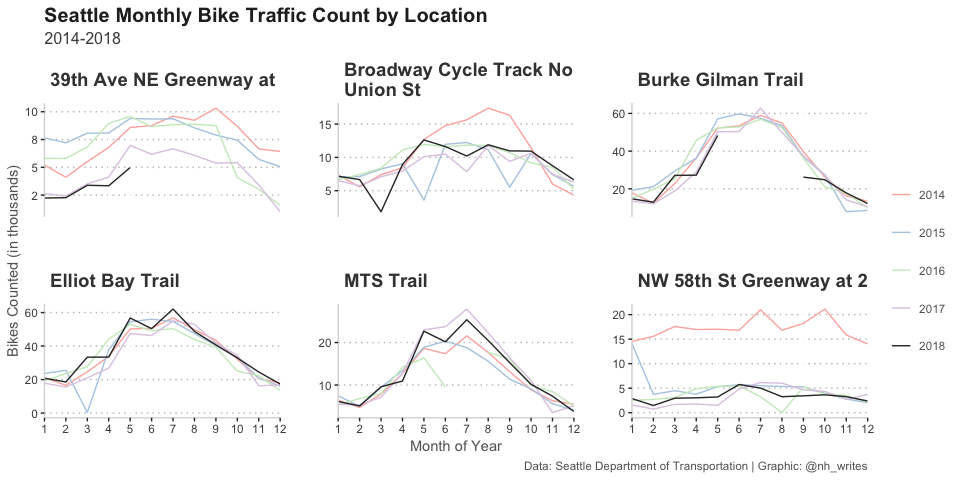
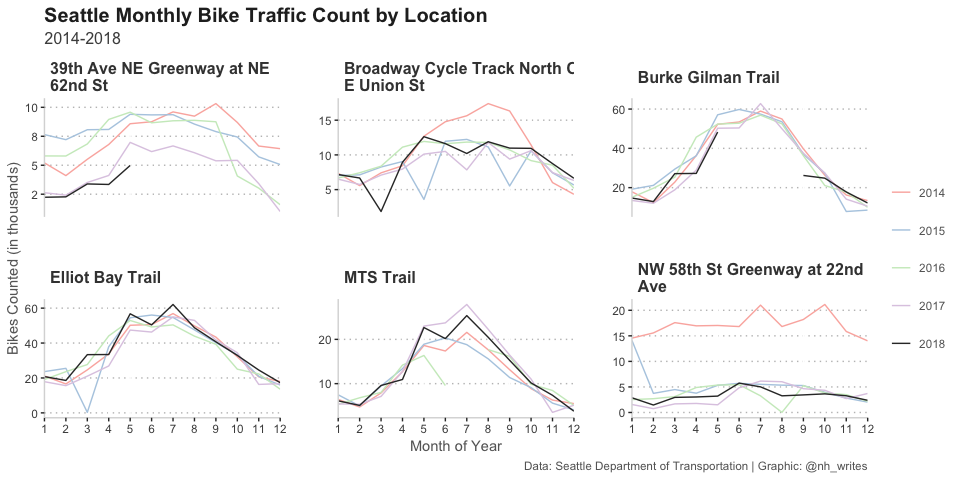
Minor update to Seattle bike traffic

diff --git a/2019-14/SeattleBikes.md b/2019-14/SeattleBikes.md
@@ -11,6 +11,8 @@ Nancy Huynh
 Data Import and Libraries
 -------------------------
 
+Another [TidyTuesday](https://github.com/rfordatascience/tidytuesday) exploratory analysis. This week the data is on bike traffic in Seattle at seven locations. The data is from the Seattle Department of Transportation, and you can get it from the [TidyTuesday Repo](https://github.com/rfordatascience/tidytuesday/tree/master/data/2019/2019-04-02)
+
 ``` r
 library(tidyverse)
 library(lubridate)
@@ -35,17 +37,17 @@ skim(bike_traffic)
     ##  n obs: 515688 
     ##  n variables: 5 
     ## 
-    ## ── Variable type:character ───────────────────────────────────────────────────────────
+    ## ── Variable type:character ──────────────────────────────────────────────────────────────────────────────────────────────────────────────────────────────────────────
     ##  variable missing complete      n min max empty n_unique
     ##  crossing       0   515688 515688   9  40     0        7
     ## 
-    ## ── Variable type:factor ──────────────────────────────────────────────────────────────
+    ## ── Variable type:factor ─────────────────────────────────────────────────────────────────────────────────────────────────────────────────────────────────────────────
     ##   variable missing complete      n n_unique
     ##  direction       0   515688 515688        4
     ##                                        top_counts ordered
     ##  Nor: 190488, Sou: 190488, Eas: 90144, Wes: 44568   FALSE
     ## 
-    ## ── Variable type:numeric ─────────────────────────────────────────────────────────────
+    ## ── Variable type:numeric ────────────────────────────────────────────────────────────────────────────────────────────────────────────────────────────────────────────
     ##    variable missing complete      n  mean     sd p0 p25 p50 p75 p100
     ##  bike_count    6603   509085 515688 11.78  28.75  0   0   3  12 8191
     ##   ped_count  261713   253975 515688 26.04 100.55  0   0   3  19 4946
@@ -53,7 +55,7 @@ skim(bike_traffic)
     ##  ▇▁▁▁▁▁▁▁
     ##  ▇▁▁▁▁▁▁▁
     ## 
-    ## ── Variable type:POSIXct ─────────────────────────────────────────────────────────────
+    ## ── Variable type:POSIXct ────────────────────────────────────────────────────────────────────────────────────────────────────────────────────────────────────────────
     ##  variable missing complete      n        min        max     median
     ##      date       0   515688 515688 2013-12-18 2019-02-28 2016-04-28
     ##  n_unique
@@ -132,7 +134,7 @@ nh_colors[5] <- "Grey20"
 
 ggplot(bike_traffic_my, aes(x = month, y = total_bike_count / 1000, color = as.factor(year))) +
   geom_line() +
-  facet_wrap(~crossing, scales = "free_y", labeller = labeller(crossing = label_wrap_gen(35))) +
+  facet_wrap(~crossing, scales = "free_y", labeller = labeller(crossing = label_wrap_gen(30))) +
   scale_color_manual(values = nh_colors, name = "") +
   scale_x_continuous(name = "Month of Year", breaks = seq(from = 1, to = 12, by = 1), expand = c(0,0)) +
   scale_y_continuous(name = "Bikes Counted (in thousands)", labels = scales::number_format(accuracy = 1)) +
